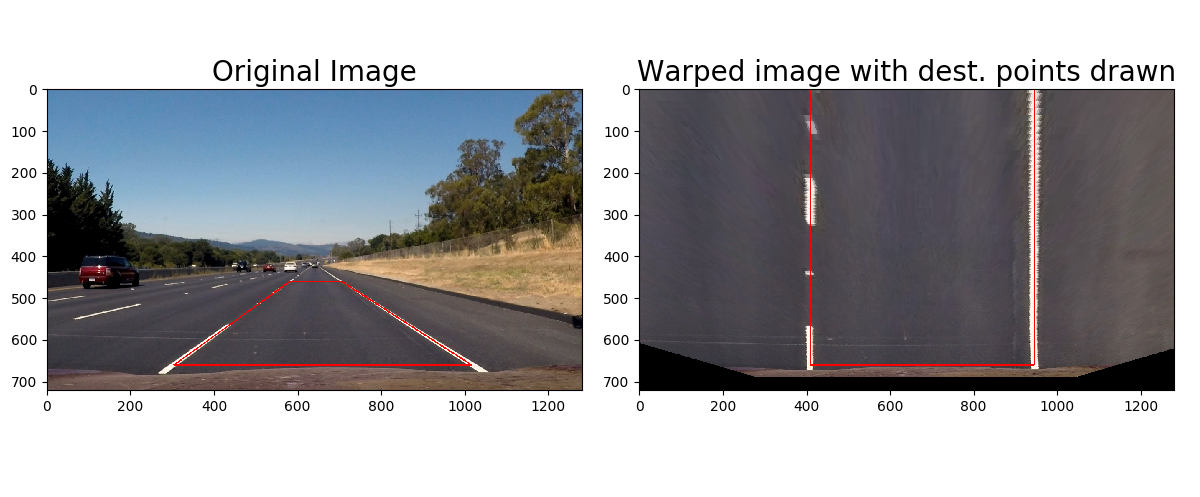
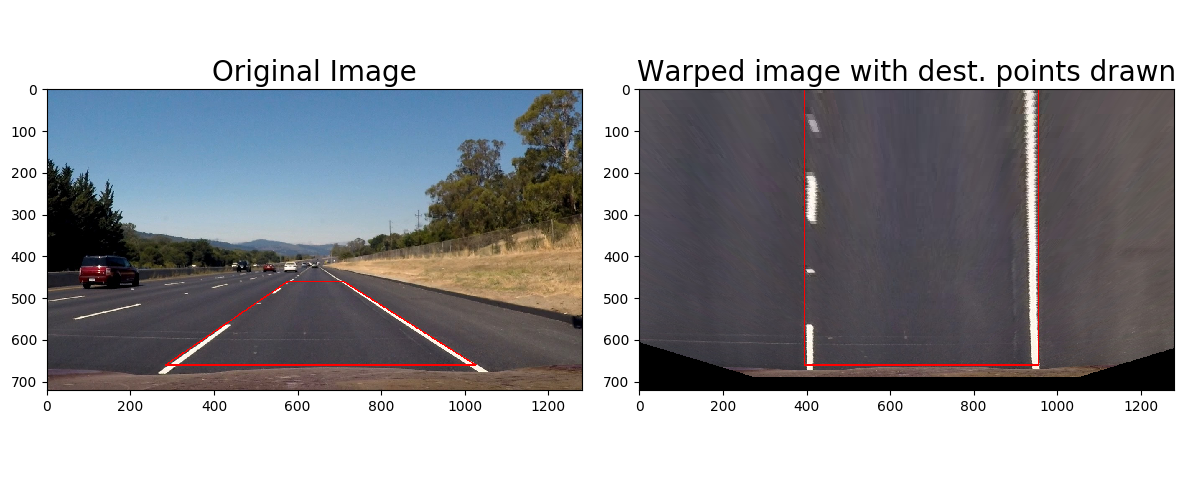
Update perspective para

diff --git a/AdvancedLaneDetection.py b/AdvancedLaneDetection.py
@@ -4,7 +4,7 @@ The goals / steps of this project are the following:
 1. Compute the camera calibration matrix and distortion coefficients given a set of chessboard images. - Done
 2. Apply a distortion correction to raw images. - Done
 3. Use color transforms, gradients, etc., to create a thresholded binary image. - Done
-4. Apply a perspective transform to rectify binary image ("birds-eye view").
+4. Apply a perspective transform to rectify binary image ("birds-eye view"). - Done
 5. Detect lane pixels and fit to find the lane boundary.
 6. Determine the curvature of the lane and vehicle position with respect to center.
 7. Warp the detected lane boundaries back onto the original image.
@@ -42,16 +42,28 @@ def draw_lines(img, points, color=(255,0,0), thickness=2):
             cv2.line(img, (x1, y1), (x2, y2), color, thickness)
 
 img_size = [image.shape[1], image.shape[0]]
+
 src = np.float32(
-    [[(img_size[0] / 2) - 70, img_size[1] / 2 + 100],
-    [((img_size[0] / 6) - 30), img_size[1] - 60],
-    [(img_size[0] * 5 / 6) - 30, img_size[1] - 60],
-    [(img_size[0] / 2 + 65), img_size[1] / 2 + 100]])
+    [[(img_size[0] / 2) - 65, img_size[1] / 2 + 100],
+    [((img_size[0] / 6) + 70), img_size[1] - 60],
+    [(img_size[0] * 5 / 6) - 40, img_size[1] - 60],
+    [(img_size[0] / 2 + 70), img_size[1] / 2 + 100]])
 dst = np.float32(
-    [[(img_size[0] / 4), 0],
-     [(img_size[0] / 4), img_size[1] - 60],
-     [(img_size[0] * 3/4), img_size[1] - 60],
-     [(img_size[0] * 3/4), 0]])
+    [[(img_size[0] / 4) + 75, 0],
+     [(img_size[0] / 4) + 75, img_size[1] - 60],
+     [(img_size[0] * 3/4) - 5, img_size[1] - 60],
+     [(img_size[0] * 3/4) - 5, 0]])
+
+# src_test5 = np.float32(
+#     [[(img_size[0] / 2) - 70, img_size[1] / 2 + 100],
+#     [((img_size[0] / 6) + 50), img_size[1] - 60],
+#     [(img_size[0] * 5 / 6) - 30, img_size[1] - 60],
+#     [(img_size[0] / 2 + 75), img_size[1] / 2 + 100]])
+# dst_test5 = np.float32(
+#     [[(img_size[0] / 4) + 60, 0],
+#      [(img_size[0] / 4) + 60, img_size[1] - 60],
+#      [(img_size[0] * 3/4) + 5, img_size[1] - 60],
+#      [(img_size[0] * 3/4) + 5, 0]])
 warped = warper(image, src, dst)
 draw_lines(image, src)
 draw_lines(warped, dst)
